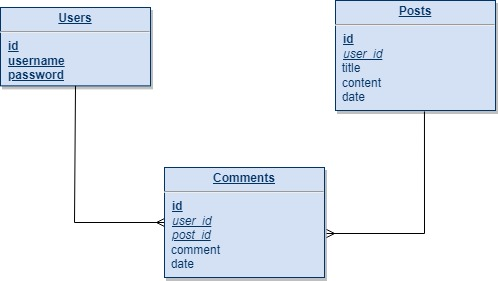
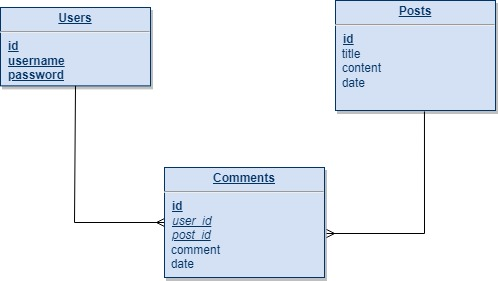
Removed user_id from Posts table in DRD - Created models for Posts and Comments in /models

Changed region(s): [[0.6627, 0.1708, 0.7831, 0.2562], [0.6928, 0.2847, 0.7831, 0.3701]]

diff --git a/models/Users.js b/models/Users.js
@@ -1,32 +1,37 @@
 // Importing Model and Datatypes from sequelize
-const { Model, DataTypes }  = require('sequelize');
+const { Model, DataTypes } = require('sequelize');
+
 // Importing bcript for hashing passwords
 const bcrypt = require('bcrypt');
+
+// Creating an instance of the sequelize connection
 const sequelize = require('../config/connection');
 
-class User extends Model {
+class Users extends Model {
   checkPassword(loginPwd) {
     return bcrypt.compareSync(loginPwd, this.password);
   };
 };
 
-User.init(
+Users.init(
   {
-    id: DataTypes.INTEGER, 
-    allowNull: false,
-    primaryKey: true,
-    autoIncrement: true
-  }, 
-  {
-    username: DataTypes.STRING, 
-    allowNull: false
-  }, 
-  {
-    password: DataTypes.STRING, 
-    allowNull: false, 
-    validate: {
-      len: [8]
-    }
+    id: {
+      type: DataTypes.INTEGER,
+      allowNull: false,
+      primaryKey: true,
+      autoIncrement: true
+    },
+    username: {
+      type: DataTypes.STRING,
+      allowNull: false
+    },
+    password: {
+      type: DataTypes.STRING,
+      allowNull: false,
+      validate: {
+        len: [8]
+      }
+    },
   },
   {
     hooks: {
@@ -43,8 +48,8 @@ User.init(
     timestamps: false,
     freezeTableName: true,
     underscored: true,
-    modelName: 'user',
+    modelName: 'users',
   }
 );
 
-module.exports = User;
+module.exports = Users;

diff --git a/models/Comments.js b/models/Comments.js
@@ -1,0 +1,51 @@
+// Importing Model and Datatypes from sequelize
+const { Model, DataTypes } = require('sequelize');
+
+// Creating an instance of the sequelize connection
+const sequelize = require('../config/connection');
+
+class Comments extends Model {};
+
+Comments.init(
+  {
+    id: {
+      type: DataTypes.INTEGER, 
+      allowNull: false, 
+      primaryKey: true, 
+      autoIncrement: true
+    }, 
+    comment: {
+      type: DataTypes.STRING, 
+      allowNull: FontFaceSetLoadEvent, 
+    }, 
+    date: {
+      type: DataTypes.DATE, 
+      allowNull: false
+    }, 
+    user_id: {
+      type: DataTypes.INTEGER, 
+      allowNull: true, 
+      references: {
+        model: 'users', 
+        key: 'id'
+      }
+    },
+    post_id: {
+      type: DataTypes.INTEGER, 
+      allowNull: true, 
+      references: {
+        model: 'posts', 
+        key: 'id'
+      }
+    }
+  }, 
+  {
+    sequelize, 
+    timestamps: false,
+    freezeTableName: true,
+    underscored: true,
+    modelName: 'comments',
+  }
+);
+
+module.exports = Comments;
